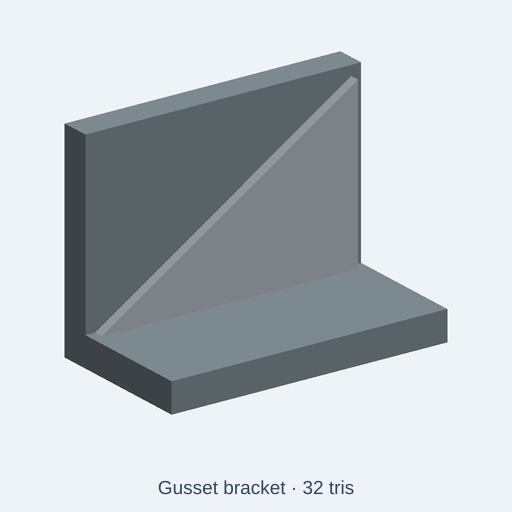
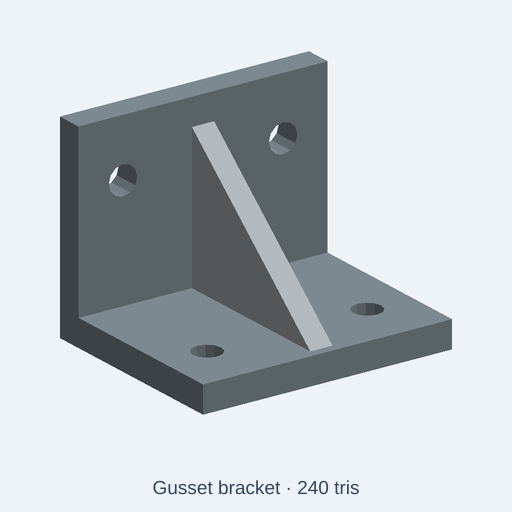
catalog: repair gusset bracket diagonal web and mounting bores

Changed region(s): [[0.0938, 0.0938, 0.9062, 0.8125], [0.2812, 0.9375, 0.7188, 0.9688]]

diff --git a/tests/integration/catalog/gussetBracketFidelity.test.ts b/tests/integration/catalog/gussetBracketFidelity.test.ts
@@ -1,0 +1,94 @@
+// SPDX-License-Identifier: MIT
+// Regression: the old scene had an upright, wall-plane triangular plate, not
+// a web spanning wall to toe, and had no mounting bores. Test exported geometry.
+import { beforeAll, describe, expect, it } from 'vitest';
+import { readFileSync } from 'node:fs';
+import { resolve } from 'node:path';
+import { initOcct } from '../../../src/kernel/backends/occt/occtBackend';
+import { buildCatalogAssetWithGlb } from '../../../src/agent/catalog/buildCatalog';
+import { runAndExport } from '../../../src/agent/script-runtime/export';
+import { glbTriangles, type SoftTriangle } from '../../../scripts/lib/glbSoftwareRender';
+
+type Vec = [number, number, number];
+const root = resolve(import.meta.dirname, '../../..');
+const file = resolve(root, 'catalog/kits/standard-components/gusset-bracket.kcad.ts');
+const dot = (a: Vec, b: Vec) => a[0] * b[0] + a[1] * b[1] + a[2] * b[2];
+const sub = (a: Vec, b: Vec): Vec => [a[0] - b[0], a[1] - b[1], a[2] - b[2]];
+const cross = (a: Vec, b: Vec): Vec => [
+  a[1] * b[2] - a[2] * b[1],
+  a[2] * b[0] - a[0] * b[2],
+  a[0] * b[1] - a[1] * b[0],
+];
+
+// Two-sided Möller-Trumbore line/triangle intersection. A through-hole has
+// no surface intersections along its centreline; adjacent plate material does.
+function rayHit(tris: SoftTriangle[], start: Vec, direction: Vec): boolean {
+  return tris.some(({ v }) => {
+    const e1 = sub(v[1], v[0]);
+    const e2 = sub(v[2], v[0]);
+    const p = cross(direction, e2);
+    const determinant = dot(e1, p);
+    if (Math.abs(determinant) < 1e-10) return false;
+    const inv = 1 / determinant;
+    const t = sub(start, v[0]);
+    const u = dot(t, p) * inv;
+    if (u < 0 || u > 1) return false;
+    const q = cross(t, e1);
+    const w = dot(direction, q) * inv;
+    if (w < 0 || u + w > 1) return false;
+    const distance = dot(e2, q) * inv;
+    return distance > 1e-7 && distance < 0.1;
+  });
+}
+
+function verifyShape(tris: SoftTriangle[], scale: number): void {
+  const vertices = tris.flatMap(t => t.v);
+  for (const [axis, low, high] of [
+    [0, -0.028, 0.028], [1, 0, 0.044], [2, -0.003, 0.043],
+  ] as const) {
+    expect(Math.min(...vertices.map(p => p[axis]))).toBeCloseTo(low * scale, 5);
+    expect(Math.max(...vertices.map(p => p[axis]))).toBeCloseTo(high * scale, 5);
+  }
+  // A diagonal web occupies the narrow centre plane and reaches both the
+  // toe and the upright. A flat triangle on the wall plane cannot pass this.
+  for (const [up, depth] of [[0.006, 0.041], [0.006, 0.003], [0.038, 0.003]]) {
+    expect(vertices.some(v => Math.abs(Math.abs(v[0]) - 0.0025 * scale) < 1e-6
+      && Math.abs(v[1] - up * scale) < 1e-6
+      && Math.abs(v[2] - depth * scale) < 1e-6)).toBe(true);
+  }
+  for (const sign of [-1, 1]) {
+    // Wall: axis normal to wall = GLB Z; hole center X=+-18, up=31 mm.
+    expect(rayHit(tris, [sign * 0.018 * scale, 0.031 * scale, -0.01 * scale], [0, 0, 1])).toBe(false);
+    expect(rayHit(tris, [sign * 0.026 * scale, 0.031 * scale, -0.01 * scale], [0, 0, 1])).toBe(true);
+    // Toe: axis normal to foot = GLB Y; hole center X=+-18, depth=30 mm.
+    expect(rayHit(tris, [sign * 0.018 * scale, -0.01 * scale, 0.03 * scale], [0, 1, 0])).toBe(false);
+    expect(rayHit(tris, [sign * 0.026 * scale, -0.01 * scale, 0.03 * scale], [0, 1, 0])).toBe(true);
+  }
+}
+
+beforeAll(async () => { await initOcct(); }, 30000);
+
+describe('CC0 gusset bracket visible construction and true mounting interfaces', () => {
+  it('exports a connected-looking right-angle assembly with 4 real bores at the default size', async () => {
+    const { asset, glb } = await buildCatalogAssetWithGlb(root, 'catalog/kits/standard-components/gusset-bracket.kcad.ts');
+    const tris = await glbTriangles(glb);
+    expect(asset.license).toBe('CC0-1.0');
+    expect(asset.description).toMatch(/not a load-rated fabrication drawing/i);
+    expect(tris.length).toBeGreaterThan(200);
+    expect(tris.length).toBeLessThanOrEqual(asset.triangleBudget);
+    verifyShape(tris, 1);
+  }, 40000);
+  it('preserves bores and touching plate envelope at both declared size extremes', async () => {
+    const source = readFileSync(file, 'utf8');
+    for (const [size, scale] of [['compact', 0.75], ['large', 1.25]] as const) {
+      const code = source.replace("param('size', 'standard'", `param('size', '${size}'`);
+      expect(code).not.toBe(source);
+      const exported = await runAndExport({ code,
+        fileName: 'gusset-bracket.kcad.ts', scriptDir: resolve(file, '..'),
+        format: 'glb', options: { format: 'glb', style: 'lowpoly', lowpoly: { maxTriangles: 380 } },
+      });
+      expect(exported.diagnostics.filter(d => d.severity === 'error')).toEqual([]);
+      verifyShape(await glbTriangles(exported.bytes), scale);
+    }
+  }, 80000);
+});

diff --git a/catalog/kits/standard-components/gusset-bracket.kcad.ts b/catalog/kits/standard-components/gusset-bracket.kcad.ts
@@ -1,9 +1,9 @@
-// Distinctive geometry: Triangular shelf-support bracket with a broad wall plate, horizontal toe and solid diagonal web
+// CC0 low-poly welded-style bracket; the plates are separate illustrative members, not a load-rated weldment.
 meta({
   name: 'gusset-bracket',
   license: 'CC0-1.0',
   title: 'Gusset bracket',
-  description: 'Triangular shelf-support bracket with a broad wall plate, horizontal toe and solid diagonal web Knobs: model size, steel, stainless steel.',
+  description: 'Illustrative right-angle gusset bracket with touching wall, toe and diagonal web, plus four through mounting holes. Not a load-rated fabrication drawing. Knobs: model size, steel, stainless steel.',
   tags: ['gusset bracket', 'shelf support', 'mounting bracket', 'plate'],
   kit: 'standard-components',
   category: 'attachment',
@@ -24,7 +24,21 @@ presets({
 const s = size.value === 'compact' ? 0.75 : size.value === 'large' ? 1.25 : 1;
 const block = (x: number, y: number, z: number, w: number, d: number, h: number) => box(w, d, h).translate(x, y, z);
 const a = assembly('gusset-bracket');
-a.part('wall', block(-28*s, -3*s, 0, 56*s, 6*s, 42*s).color(steel));
-a.part('toe', block(-28*s, -28*s, 0, 56*s, 28*s, 6*s).color(steel));
-a.part('gusset', extrudePolygon([[-26*s,0],[26*s,0],[26*s,34*s]], 5*s).rotateX(90).translate(0,0,6*s).color(stainless));
+
+// Y = -3*s is the common wall/toe contact plane; no floating plate or web.
+// All three bodies remain separate to represent the welded-style construction.
+let wall = block(-28*s, -3*s, 0, 56*s, 6*s, 44*s);
+let toe = block(-28*s, -43*s, 0, 56*s, 40*s, 6*s);
+for (const x of [-18, 18]) {
+  // Clearance bores go all the way through both plates (not surface decals).
+  wall = wall.subtract(cylinder(8*s, 3.2*s, 20).rotateX(90).translate(x*s, 4*s, 31*s));
+  toe = toe.subtract(cylinder(8*s, 3.2*s, 20).translate(x*s, -30*s, -1*s));
+}
+// Polygon in the YZ plane after rotation: bottom contacts toe at Z=6*s;
+// rear edge contacts wall at Y=-3*s. The web occupies X=+-2.5*s.
+const web = extrudePolygon([[-41*s, 6*s], [-3*s, 6*s], [-3*s, 38*s]], 5*s)
+  .rotateX(90).rotateZ(90).translate(-2.5*s, 0, 0);
+a.part('wall-plate', wall.color(steel));
+a.part('horizontal-toe', toe.color(steel));
+a.part('diagonal-web', web.color(stainless));
 return a.model();

diff --git a/artifacts/catalog-demos/gusset-bracket-20261111/README.md b/artifacts/catalog-demos/gusset-bracket-20261111/README.md
@@ -1,0 +1,26 @@
+# Gusset bracket semantic-fidelity repair — 11 November 2026
+
+This is a **CC0 low-poly scene prop**, not a manufacturer-defined bracket, FEA result, licensed weldment or load-rated fabrication drawing.
+
+## Evidence
+
+- Production `https://kernelcad.com/assets/standard-components-gusset-bracket.kcad.ts` and `.png` matched `origin/develop` byte for byte at the time of audit. Manifest `https://kernelcad.com/assets.json` reported `generatedAt = 2026-11-11T02:39:30.846Z` and 2,418 entries.
[2 lines of base64/hex data omitted]
+- The old `gusset` triangle is in the wall's X-Z plane (and occupies only 5 mm of Y depth), not a diagonal web between the wall and forward toe. The source has no mounting holes. Its 32-triangle preview conceals both faults.
+- The corrected model has a **56 mm wide, 44 mm tall wall plate**, **40 mm deep toe** and **5 mm thick, triangular Y-Z plane web**. Plate faces contact at Y = −3 mm; web edges contact the toe top (Z = 6 mm) and wall inner face. Separate model parts represent the three pieces; the model does **not** include weld geometry.
+- Four **Ø6.4 mm** through-holes are Boolean subtractions: wall at X = ±18 mm, Z = 31 mm; toe at X = ±18 mm, Y = −30 mm. Default whole-envelope size from exported GLB: **56 × 44 × 46 mm** in renderer X/Y/Z coordinates.
+- Corrected default export **240 triangles** against budget **380**. The source, low-poly GLB and exact-source rendered PNG were checked. `before-after.jpg` compares the original live thumbnail with the locally rendered corrected thumbnail. `before-after.mp4` is a 6-second sequence of these actual source-derived renders, not a fabricated product photo.
+- Added `tests/integration/catalog/gussetBracketFidelity.test.ts` with 2 tests for real ray-clear through-holes, adjacent solid metal, true diagonal web anchor vertices, full envelope and 0.75×/1.25× declared size extremes. The evaluator reported no error diagnostics in all three variants.
+
+## Gates and release state
+
+- Focused fidelity regression: 2/2 PASS.
+- Exact `audit-assets.ts --only standard-components/gusset-bracket`: LOAD, KNOBS, MESH PASS.
+- Focused ESLint: PASS. `git diff --check`: PASS.
+- Existing lightweight catalog quality metric on checked `origin/develop`: **2,389/2,402 PASS**; 12 travel-gear assets and `standard-components/beam-coupling` were already below its colour-knob threshold. These are not caused by this patch. This metric does not establish engineering correctness.
+- Full catalog integration and GitHub required checks: see PR status. Do not merge without gates and review. **Not deployed; public page still displays the old source and PNG.**
+
+## Scope and handoff
+
+This change affects exactly one existing `standard-components/gusset-bracket` source, its canonical PNG and index row, and adds one regression test plus this evidence bundle. No bulk rewrites, performance claims or changes to the 66-asset ledger PR #1279. Additional 11 live, high-visibility assets were reviewed separately in `/home/andrii/ventures/state/kernelcad-asset-review-20261111/sample-12/`, with source/PNG matches and native default evaluations recorded in the local ledger.
